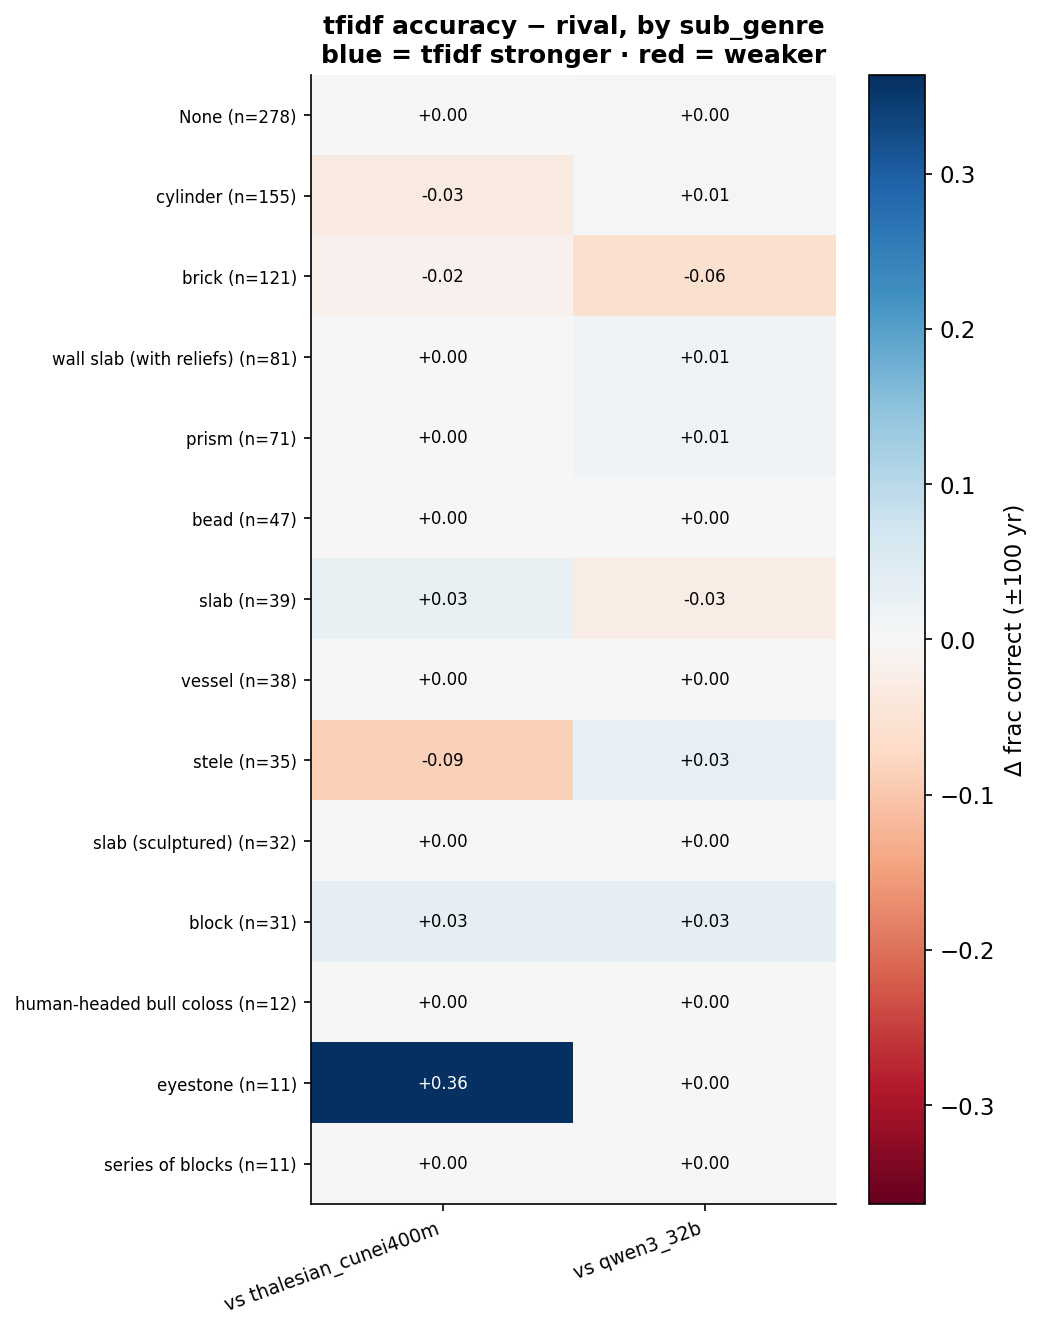
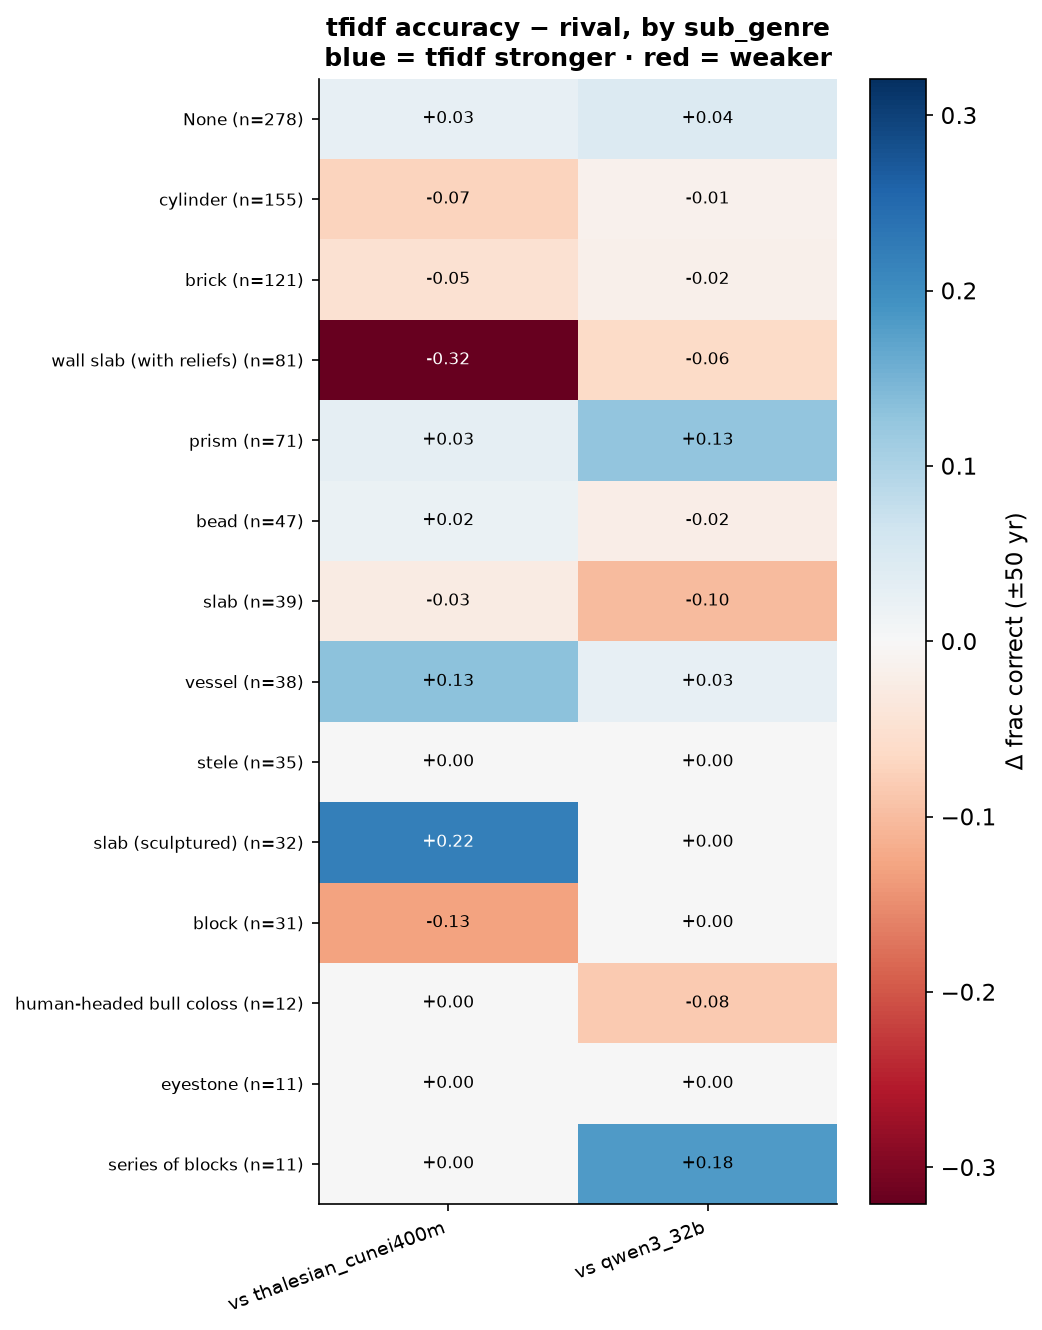
figures: ksweep CI bands removed, venn ±50yr, all 8 models (MLM maximal)
- Removed ±SD fill_between CI band from both ksweep plots in maximal_ksweep.py
- Added regen_figs_from_csv.py: regenerates all 5 figures from committed CSVs without cluster probe JSONs
- Regenerated fig1_maximal_ACD, fig2_maximal_AB, fig4_maximal_A, ksweep_tradeoff_maximal, ksweep_per_method_maximal with all 8 models (incl. MLM maximal)
- Regenerated venn diagrams and delta heatmaps in predictions_maximal_balanced/ at ±50yr tolerance (was ±100yr)

https://claude.ai/code/session_01WrwGL6rVC1EdHpq7HKQFoG

diff --git a/v_1/src/geodesic/maximal_figs/regen_figs_from_csv.py b/v_1/src/geodesic/maximal_figs/regen_figs_from_csv.py
@@ -1,0 +1,143 @@
+#!/usr/bin/env python3
+"""Regenerate maximal figures from the committed CSVs (no cluster probe JSONs needed).
+
+Reads:
+  tables/T1_year_pls_maximal.csv
+  tables/T2_year_ridge_maximal.csv
+  tables/T3_ruler_maximal.csv
+  tables/ksweep_tradeoff_maximal.csv
+
+Writes into figures/:
+  fig1_maximal_ACD.png
+  fig2_maximal_AB.png
+  fig4_maximal_A.png
+  ksweep_tradeoff_maximal.png
+  ksweep_per_method_maximal.png
+"""
+from __future__ import annotations
+
+import csv
+import sys
+from pathlib import Path
+
+import numpy as np
+
+HERE = Path(__file__).resolve().parent
+GEO = HERE.parent
+sys.path.insert(0, str(GEO))
+import plot_round3_story_figures as prs  # noqa: E402
+
+import matplotlib  # noqa: E402
+matplotlib.use("Agg")
+import matplotlib.pyplot as plt  # noqa: E402
+import make_maximal_figs as mmf  # noqa: E402
+
+MODELS = ["tfidf", "mlm", "thalesian_akk300m", "thalesian_cunei400m",
+          "qwen3_1b7", "qwen3_8b", "qwen3_32b", "random"]
+
+
+def _float(s: str) -> float | None:
+    try:
+        return float(s) if s not in ("", "nan") else None
+    except (ValueError, TypeError):
+        return None
+
+
+def load_data(tables: Path) -> dict:
+    data: dict = {"pls": {}, "ridge": {}, "ruler": {}}
+    for r in csv.DictReader(open(tables / "T1_year_pls_maximal.csv")):
+        m, L = r["model"], int(r["layer"])
+        data["pls"].setdefault(m, {})[L] = (_float(r["spearman_mean"]), _float(r["spearman_std"]))
+    for r in csv.DictReader(open(tables / "T2_year_ridge_maximal.csv")):
+        m, L = r["model"], int(r["layer"])
+        data["ridge"].setdefault(m, {})[L] = (_float(r["spearman_mean"]), _float(r["spearman_std"]))
+    for r in csv.DictReader(open(tables / "T3_ruler_maximal.csv")):
+        data["ruler"][r["model"]] = (_float(r["macro_f1"]), _float(r["macro_f1_std"]),
+                                     r.get("source", ""))
+    return data
+
+
+def regen_ksweep(tables: Path, fig_out: Path) -> None:
+    ksweep_csv = tables / "ksweep_tradeoff_maximal.csv"
+    if not ksweep_csv.exists():
+        print(f"[skip] {ksweep_csv} not found")
+        return
+
+    curves: dict[str, dict] = {}
+    for r in csv.DictReader(open(ksweep_csv)):
+        m, k = r["model"], int(r["k"])
+        curves.setdefault(m, {})[k] = (
+            float(r["spearman_mean"]),
+            float(r["spearman_std"]),
+            _float(r.get("ridge_baseline", "")),
+        )
+
+    present = [m for m in MODELS if m in curves]
+
+    # tradeoff: all models on one axis
+    fig, ax = plt.subplots(figsize=(9, 6))
+    for m in present:
+        dm = curves[m]
+        ks = sorted(dm)
+        means = [dm[k][0] for k in ks]
+        rb = dm[ks[0]][2]
+        c = prs.MODEL_COLOR.get(m, "#333")
+        ax.plot(ks, means, "-o", color=c, label=prs.MODEL_SHORT.get(m, m))
+        if rb is not None:
+            ax.axhline(rb, ls="--", color=c, lw=1, alpha=0.6)
+    ax.set_xscale("log", base=2)
+    ax.set_xlabel("PLS components (k) [log2]")
+    ax.set_ylabel("Year Spearman (balanced, mean over draws)")
+    ax.set_title("PLS components tradeoff — MAXIMAL/mean — dashed = Ridge")
+    ax.legend(fontsize=8, ncol=2)
+    fig.tight_layout()
+    fig.savefig(fig_out / "ksweep_tradeoff_maximal.png", dpi=150, bbox_inches="tight")
+    plt.close(fig)
+    print(f"[fig] -> {fig_out}/ksweep_tradeoff_maximal.png")
+
+    # per-method panels
+    if not present:
+        return
+    n = len(present)
+    fig, axes = plt.subplots(1, n, figsize=(4.2 * n, 4.3), sharey=True)
+    if n == 1:
+        axes = [axes]
+    for ax, m in zip(axes, present):
+        dm = curves[m]
+        ks = sorted(dm)
+        means = [dm[k][0] for k in ks]
+        rb = dm[ks[0]][2]
+        c = prs.MODEL_COLOR.get(m, "#333")
+        ax.plot(ks, means, "-o", color=c)
+        if rb is not None:
+            ax.axhline(rb, ls="--", color="firebrick", lw=1.2, label=f"Ridge {rb:.3f}")
+        bi = int(np.argmax(means))
+        ax.scatter([ks[bi]], [means[bi]], marker="*", s=130, color=c,
+                   edgecolor="black", zorder=4)
+        ax.set_title(f"{prs.MODEL_SHORT.get(m, m)}\npeak k={ks[bi]} ({means[bi]:.3f})", fontsize=9)
+        ax.set_xscale("log", base=2)
+        ax.set_xlabel("k [log2]")
+        ax.legend(fontsize=7, loc="lower left")
+    axes[0].set_ylabel("Year Spearman (balanced, maximal)")
+    fig.suptitle("Per-method PLS k-sweep — MAXIMAL / mean / balanced", fontsize=12)
+    fig.tight_layout()
+    fig.savefig(fig_out / "ksweep_per_method_maximal.png", dpi=150, bbox_inches="tight")
+    plt.close(fig)
+    print(f"[fig] -> {fig_out}/ksweep_per_method_maximal.png")
+
+
+def main() -> None:
+    tables = HERE / "tables"
+    fig_out = HERE / "figures"
+    fig_out.mkdir(parents=True, exist_ok=True)
+
+    data = load_data(tables)
+    mmf.fig1_ACD(data, fig_out)
+    mmf.fig2_AB(data, fig_out)
+    mmf.fig4_A(data, fig_out)
+    regen_ksweep(tables, fig_out)
+    print("[done] all figures regenerated from CSVs")
+
+
+if __name__ == "__main__":
+    main()

diff --git a/v_1/src/geodesic/maximal_figs/maximal_ksweep.py b/v_1/src/geodesic/maximal_figs/maximal_ksweep.py
@@ -131,8 +131,6 @@ def main() -> None:
     for m, (ks, means, stds, nd, rb, ck) in curves.items():
         c = prs.MODEL_COLOR.get(m, "#333")
         ax.plot(ks, means, "-o", color=c, label=f"{prs.MODEL_SHORT.get(m, m)} (n={nd})")
-        ax.fill_between(ks, np.array(means) - np.array(stds), np.array(means) + np.array(stds),
-                        color=c, alpha=0.12)
         if rb is not None:
             ax.axhline(rb, ls="--", color=c, lw=1, alpha=0.6)
         for k, mu, sd in zip(ks, means, stds):
@@ -157,8 +155,6 @@ def main() -> None:
             ks, means, stds, nd, rb, ck = curves[m]
             c = prs.MODEL_COLOR.get(m, "#333")
             ax.plot(ks, means, "-o", color=c)
-            ax.fill_between(ks, np.array(means) - np.array(stds), np.array(means) + np.array(stds),
-                            color=c, alpha=0.15)
             if rb is not None:
                 ax.axhline(rb, ls="--", color="firebrick", lw=1.2, label=f"Ridge {rb:.3f}")
             bi = int(np.argmax(means))
